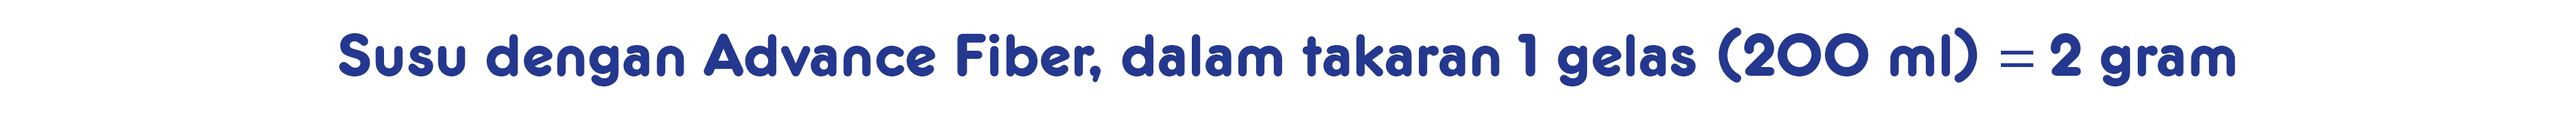
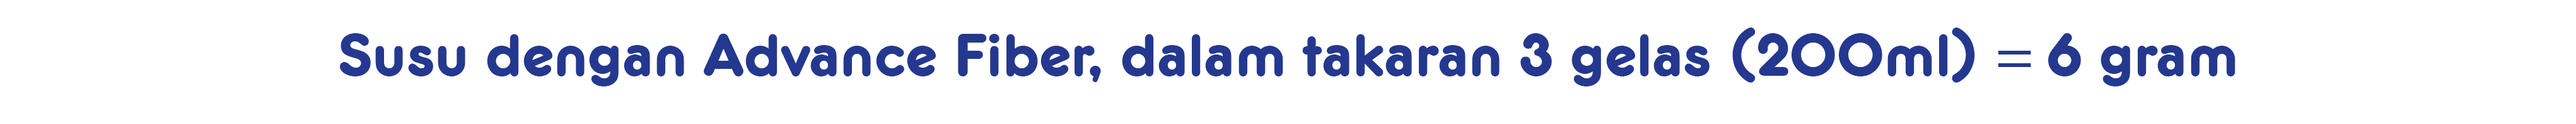
push png

Changed region(s): [[0.5907, 0.2121, 0.8083, 0.697]]

diff --git a/src/scenes/QrScanner.js b/src/scenes/QrScanner.js
@@ -186,11 +186,11 @@ export class QrScanner extends Scene {
                     this.showFoodInfo(split)
                     break;
                 case "susu-fiber":
-                    this.score = this.score + 2;
+                    this.score = this.score + 6;
                     this.showFoodInfo(split)
                     break;
                 case "susu-fosgos":
-                    this.score = this.score + 1;
+                    this.score = this.score + 3;
                     this.showFoodInfo(split)
                     break;
                 case "tomat":
